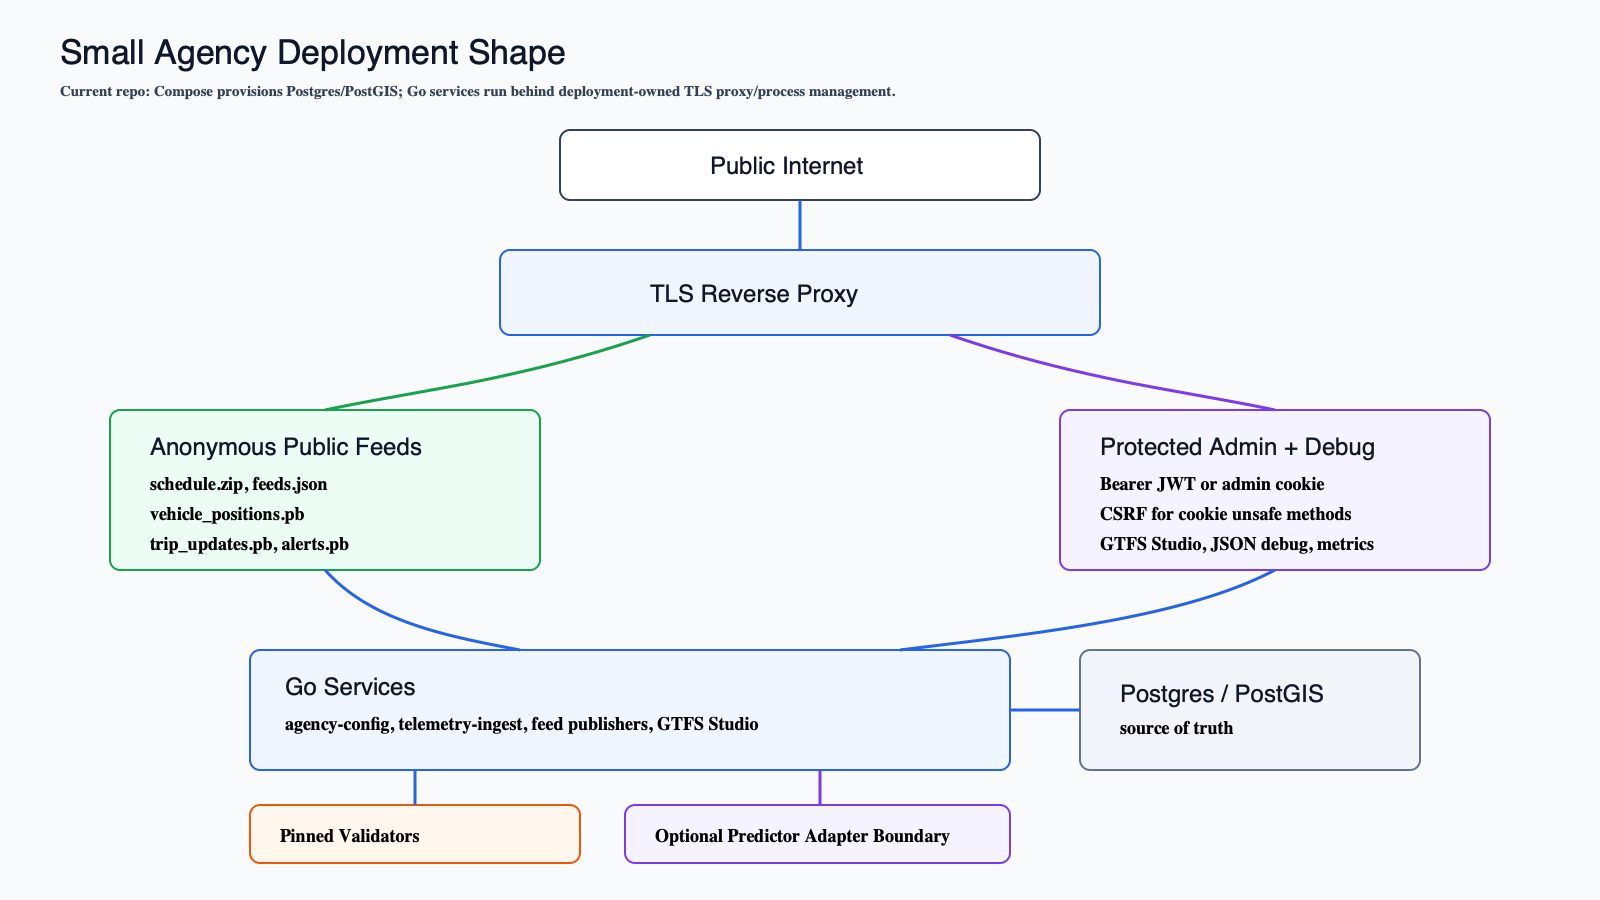
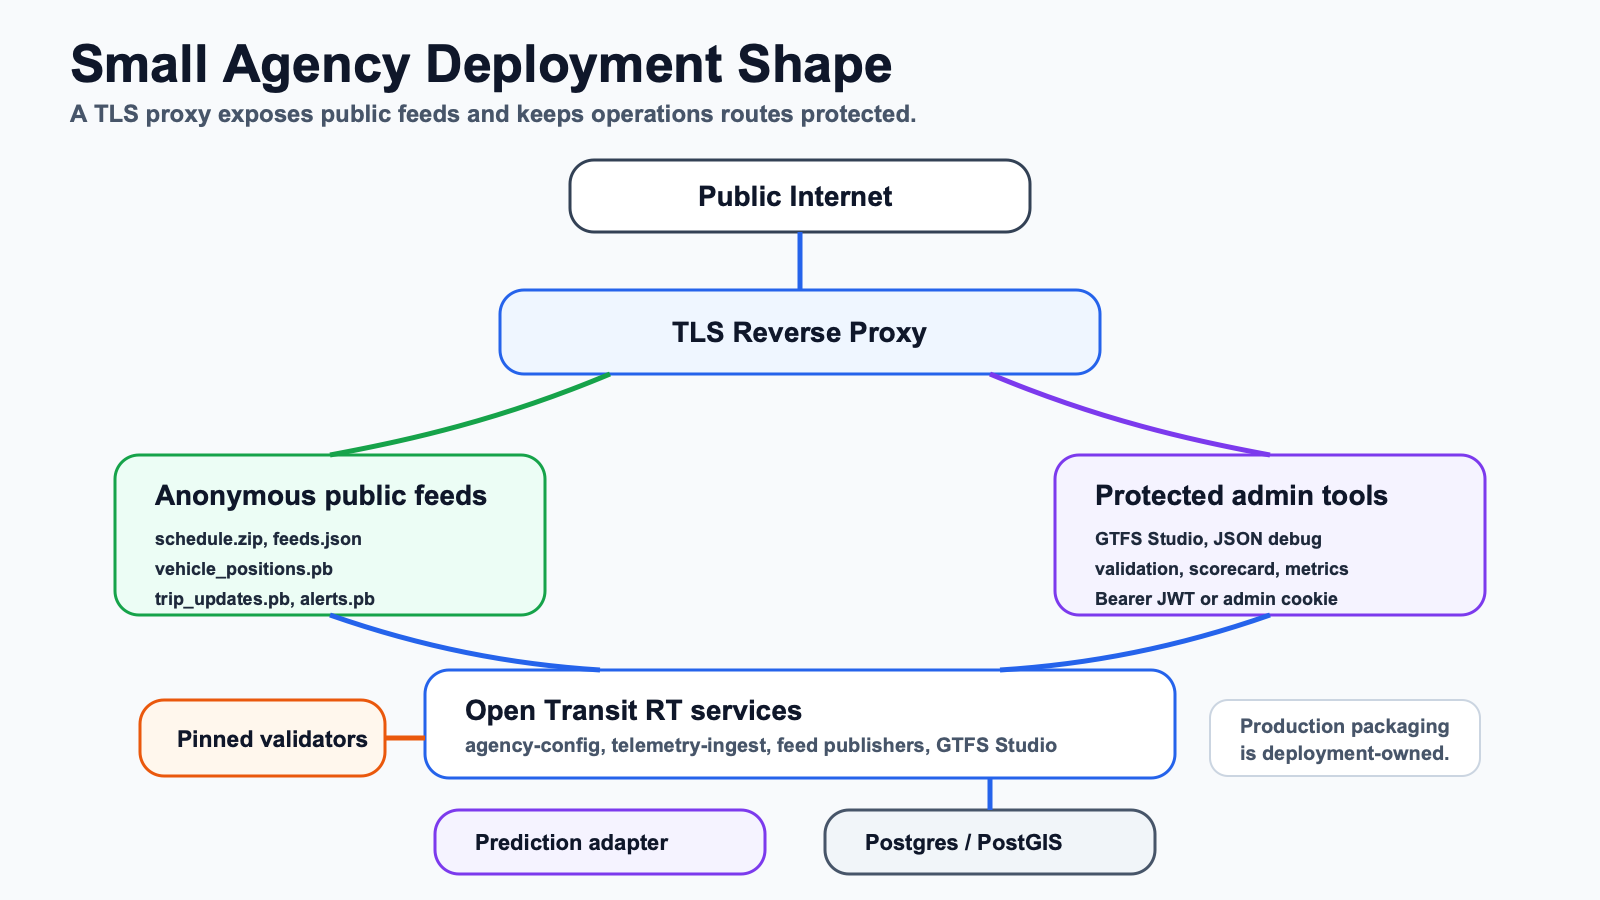
Phase 14 -- Checkpoint 3

Changed region(s): [[0.0625, 0.3111, 0.9375, 0.9956], [0.0312, 0.0311, 0.6562, 0.28]]

diff --git a/docs/assets/README.md b/docs/assets/README.md
@@ -8,7 +8,7 @@ Public-facing copies of selected PNG assets also live under `wiki/assets/` so `/
 
 Every generated or generated-assisted image must be manually reviewed before it is referenced in docs.
 
-- Labels must match current repo behavior.
+- Labels must match project behavior.
 - Captions must say whether the image is illustrative or exact-behavior based.
 - Alt text must describe the useful content of the image, not just repeat the filename.
 - Generated drafts may be refined into checked-in SVG/PNG assets when text or labels need cleanup.
@@ -89,16 +89,16 @@ Source:
 - `architecture-overview.svg`
 
 Type:
-- Exact-behavior architecture diagram rendered from a reviewed SVG spec.
+- Exact-behavior architecture summary rendered from a reviewed SVG spec.
 
 Used in:
 - Available as a deeper architecture reference; not currently used on the README front door.
 
 Alt text:
-- Architecture overview showing GTFS ZIP import and GTFS Studio feeding published GTFS, telemetry feeding matcher assignments, Vehicle Positions and Trip Updates publication through a prediction adapter, Service Alerts, validation/scorecard, and public feed outputs.
+- Architecture overview showing schedule inputs, vehicle state, feed builders, public feed outputs, and validation/readiness evidence as four clear areas.
 
 Prompt/spec:
-- Clean technical architecture overview. Include GTFS import, GTFS Studio, published GTFS, telemetry ingest, matcher/assignments, Vehicle Positions, prediction adapter, Trip Updates, Service Alerts, validation/scorecard, and public outputs: `schedule.zip`, `vehicle_positions.pb`, `trip_updates.pb`, `alerts.pb`, and `feeds.json`.
+- Clean architecture summary with four bounded areas: schedule inputs, vehicle state, feed builders, and public feeds. Use large readable labels, no crossing lines, and no phase-history wording.
 
 ### `agency-deployment.png`
 
@@ -106,16 +106,16 @@ Source:
 - `agency-deployment.svg`
 
 Type:
-- Exact-behavior deployment-boundary diagram rendered from a reviewed SVG spec.
+- Exact-behavior deployment-shape diagram rendered from a reviewed SVG spec.
 
 Used in:
 - Deployment/readiness documentation as needed.
 
 Alt text:
-- Agency deployment diagram showing public internet through TLS reverse proxy, anonymous public feed paths, protected admin/debug paths, Go services, Postgres/PostGIS, pinned validators, and optional predictor adapter boundary.
+- Small agency deployment diagram showing public internet, TLS reverse proxy, anonymous public feeds, protected admin tools, Open Transit RT services, pinned validators, prediction adapter, and Postgres/PostGIS.
 
 Prompt/spec:
-- Clean small-agency deployment diagram. Show TLS reverse proxy, anonymous public feeds, protected admin/debug, Go services, Postgres/PostGIS, pinned validators, and optional predictor adapter. Do not show unsupported SSO, consumer acceptance, or production-ready claims.
+- Clean small-agency deployment diagram. Show TLS reverse proxy, anonymous public feeds, protected admin tools, Open Transit RT services, Postgres/PostGIS, pinned validators, and optional predictor adapter. Keep text bounded and avoid overlapping connectors. Do not show unsupported SSO, consumer acceptance, or production-ready claims.
 
 ### `quickstart-flow.png`
 
@@ -130,10 +130,10 @@ Used in:
 - `docs/tutorials/local-quickstart.md`
 
 Alt text:
-- Exact-behavior local quickstart flow showing database bootstrap, validator install, sample GTFS import, service startup, publication bootstrap, telemetry ingest, public feed fetches, validation run, and scorecard inspection.
+- Exact-behavior local quickstart flow grouped into setup, publish-and-ingest, and review-output steps.
 
 Prompt/spec:
-- Clean numbered quickstart flow. Include bootstrap DB, install validators, import sample GTFS, start services, bootstrap publication, ingest telemetry, fetch public feeds, run validation, and inspect scorecard.
+- Clean numbered quickstart flow grouped into setup, publish-and-ingest, and review-output steps. Use large bounded labels and avoid long connector lines.
 
 ### `public-vs-admin-endpoints.png`
 
@@ -147,7 +147,7 @@ Used in:
 - `docs/tutorials/agency-demo-flow.md`
 
 Alt text:
-- Exact-behavior boundary diagram showing anonymous public schedule, feeds.json, and realtime protobuf routes separated from protected GTFS Studio, JSON debug, telemetry events, validation, scorecard, Alerts admin, and device rebinding routes.
+- Exact-behavior endpoint boundary diagram showing anonymous public feed routes separated from protected admin, debug, telemetry, validation, and scorecard examples.
 
 Prompt/spec:
-- Clean two-column endpoint boundary. Public side includes `schedule.zip`, `feeds.json`, `vehicle_positions.pb`, `trip_updates.pb`, and `alerts.pb`. Protected side includes GTFS Studio, GTFS Studio draft subroutes, JSON debug feeds, telemetry events, validation run, scorecard, Alerts admin, and device rebinding. Include the Bearer JWT/admin-cookie auth boundary.
+- Clean two-column endpoint boundary. Public side includes `schedule.zip`, `feeds.json`, `vehicle_positions.pb`, `trip_updates.pb`, and `alerts.pb`. Protected side includes examples such as GTFS Studio, JSON debug feeds, telemetry events, validation, and scorecard. Keep labels bounded and readable.

diff --git a/docs/handoffs/phase-14.md b/docs/handoffs/phase-14.md
@@ -23,6 +23,7 @@ Phase 14 — Public Launch Polish and Repo Simplification
 - Updated README with direct links to public wiki pages and internal reference docs.
 - Reviewed README and `wiki/` for public-facing tone, replacing phase/status-report wording such as "not claimed yet", "do not overstate", "current repo", and visible "handoff" link text with reader-facing boundary and maintainer-reference language.
 - Added emoji-based quick-action navigation and direct GitHub star links/badge for non-technical readers.
+- Regenerated the older Phase 10 docs diagrams (`architecture-overview`, `agency-deployment`, `quickstart-flow`, and `public-vs-admin-endpoints`) from simplified reviewed SVG specs with larger labels, fewer words, and no crossing or overlapping diagram lines.
 - Refreshed `docs/tutorials/README.md`, `docs/tutorials/local-quickstart.md`, and `docs/tutorials/agency-demo-flow.md` with clearer navigation, captions, and descriptive alt text.
 - Updated `docs/assets/README.md` with visual source notes, where each image is used, prompt/spec text, alt text, and the manual visual review rule.
 - Updated `docs/prompts/docs-assets-image-generation.md` with Phase 14 visual candidates and review requirements.
